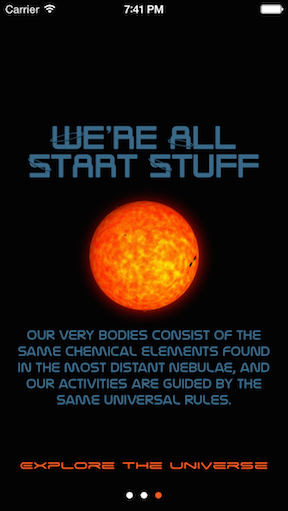
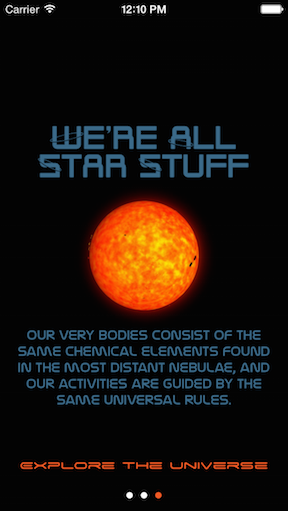
Fixed typo in screenshot and gif.

diff --git a/Objective-C/Onboard/AppDelegate.m b/Objective-C/Onboard/AppDelegate.m
@@ -117,7 +117,7 @@ static NSString * const kUserHasOnboardedKey = @"user_has_onboarded";
     secondPage.bodyFontName = @"NasalizationRg-Regular";
     secondPage.bodyFontSize = 18;
     
-    OnboardingContentViewController *thirdPage = [[OnboardingContentViewController alloc] initWithTitle:@"We're All Start Stuff" body:@"Our very bodies consist of the same chemical elements found in the most distant nebulae, and our activities are guided by the same universal rules." image:nil buttonText:@"Explore the universe" action:^{
+    OnboardingContentViewController *thirdPage = [[OnboardingContentViewController alloc] initWithTitle:@"We're All Star Stuff" body:@"Our very bodies consist of the same chemical elements found in the most distant nebulae, and our activities are guided by the same universal rules." image:nil buttonText:@"Explore the universe" action:^{
         [self handleOnboardingCompletion];
     }];
     thirdPage.topPadding = 10;
